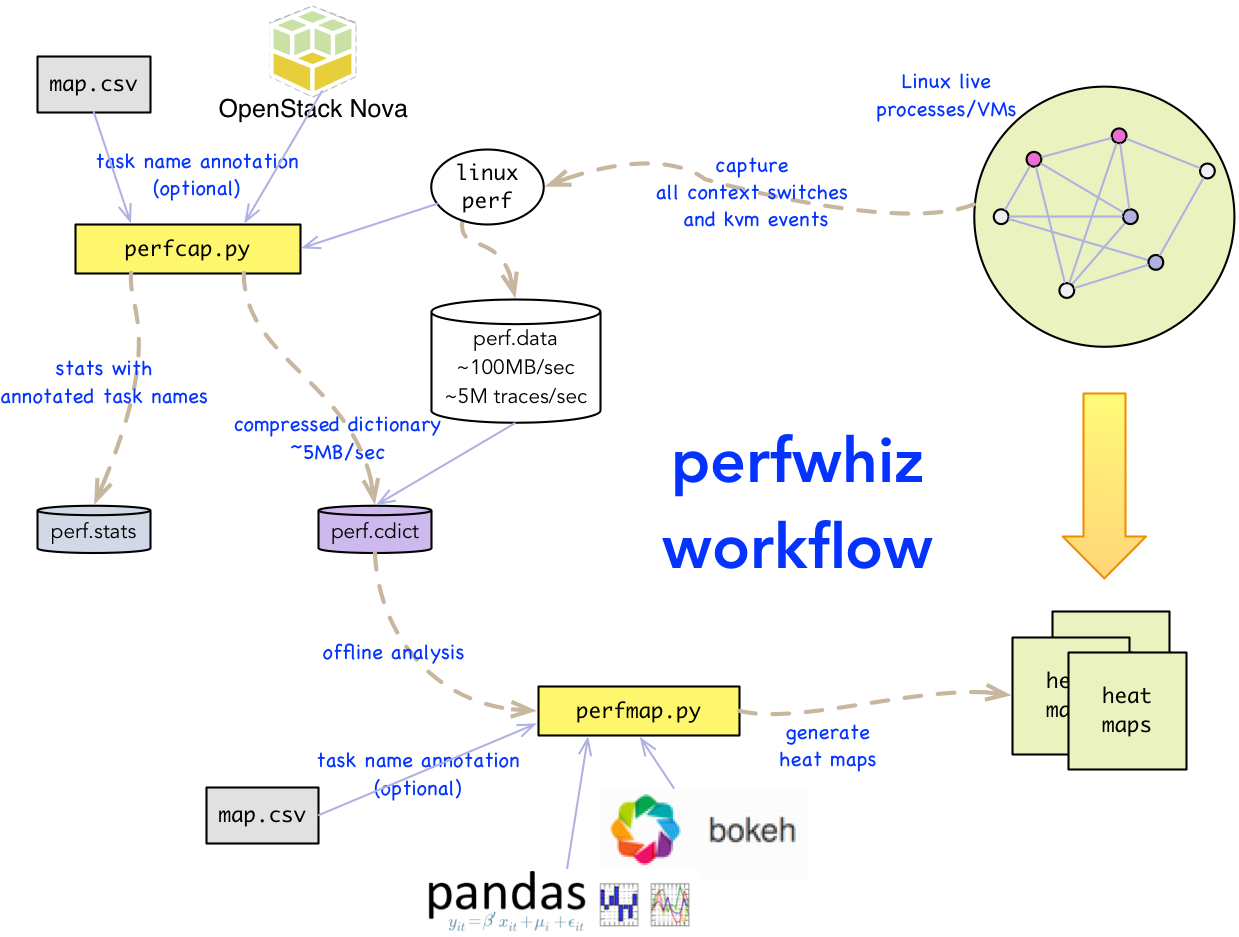
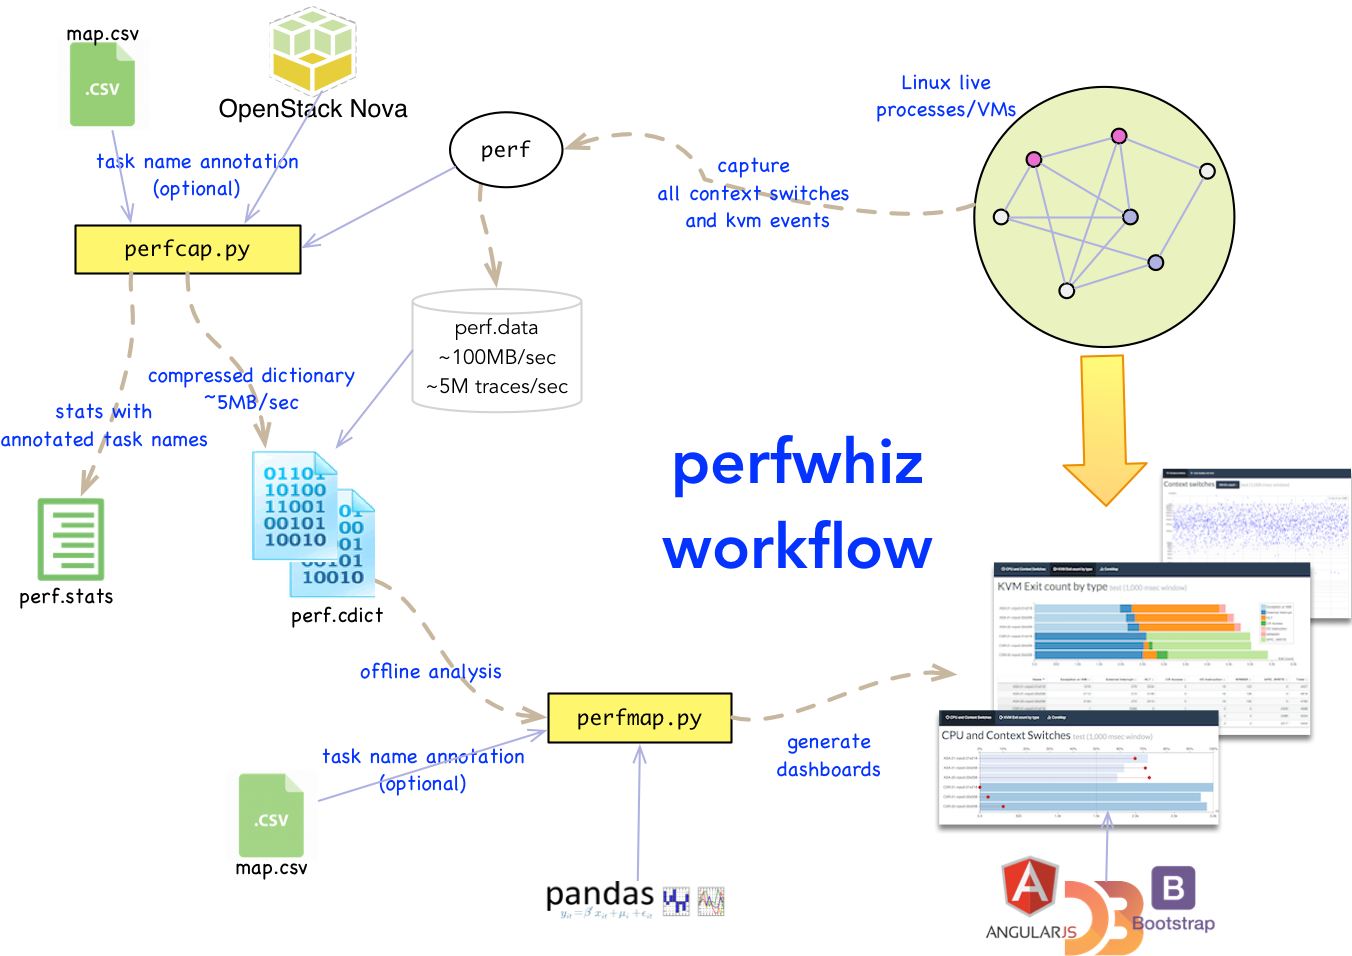
Update readme and workflow diagram

diff --git a/README.rst b/README.rst
@@ -4,32 +4,65 @@ Overview
 
 This repository contains a set of python scripts for helping tune any Linux
 system for performance and scale by leveraging the Linux *perf* tool and
-generate from the perf traces a visualization of Linux scheduler context switches and KVM events:
+generating from the perf traces 2 HTML dashboards that represent Linux scheduler context switches
+and KVM events.
 
+The basic dashboard illustrates general scheduler and KVM events for all tasks selected at capture time:
+- KVM exit types distribution stacked bar charts (exit type distribution per task)
+- task scheduler core assignment and context switch count heat maps (run time % and context switch count on each core per task - including total time per core and per task)
+
+The detailed dashboard illustrates detailed scheduler and KVM events at the task level:
 - context switch heat maps (temporal distribution of context switch events)
 - KVM exit heat maps (temporal distribution of kvm entry and exit events)
-- KVM exit types distribution stacked bar charts (exit type distribution per task)
-- task scheduler core assignment heat maps (run time % on each core per task - including IDLE time)
-- task per core context switch count heat maps (how many context switches per core per task)
-- core locality heat maps (on which core does task run over time)
+- Coremaps (on which core does any given task run over time)
 
+The task annotation feature further allows the generation of cross-run charts (diffs) that can help
+detect more easily differences of behavior across multiple captures/runs.
 
 The capture script wraps around the Linux perf tool to capture events of
-interest (such as context switches, and kvm events) and generates a much more
+interest (such as context switches and kvm events) and generates a much more
 compact binary file to be used for analysis offline.
 
 Complete documentation including installation and usage instructions:
  `<http://perfwhiz.readthedocs.org/en/latest/>`_
 
-Heatmap Gallery
----------------
-
-(to add sample html files with embedded Java Script - try it out for now if you're curious)
 
 perfwhiz Workflow
-------------------
+-----------------
+
+The following diagram illustrates the 2 phases for getting the dashboards: capture phase (perfcap.py) and dashboard generation phase (perfmap.py).
 
 .. image:: images/perfwhiz.png
+
+Capture is performed on the system under test, by invoking the perfcap.py script and specify which tasks to capture events from and for how long.
+The result of each capture is a binary file (with the cdict extension, cdict stands for compressed dictionary).
+
+The binary files can then later be provided to the dashboard generation tool (perfmap.py) to generate the corresponding dashboards.
+This dashboard generation phase is typically done offline on a workstation where perfmap is installed (laptop, macbook...).
+The generated dashboards are HTML files that can be viewed using any browser.
+
+Dependencies
+------------
+Dependencies are automatically installed when perfwhiz is being installed (refer to the Installation section).
+
+The capture tool perfcap.py depends on:
+- the Linux perf tool (compiled with the python extension)
+- pbr python package
+- msgpack python package
+
+The dashboard generation tool perfmap.py depends on:
+- pandas/numpy python package
+
+The generated HTML dashboards contain Javascript code that will pull some Javascript libraries from CDN servers
+when loaded in the browser (CDN is a public network of servers that contain libraries that are downloaded by browsers).
+Therefore, viewing those dashboards require access to the Internet.
+The following Javascript libraries are required by the dashboards:
+- jquery
+- datatables
+- d3
+- angular
+- angular-ui-bootstrap
+
 
 Licensing
 ---------
